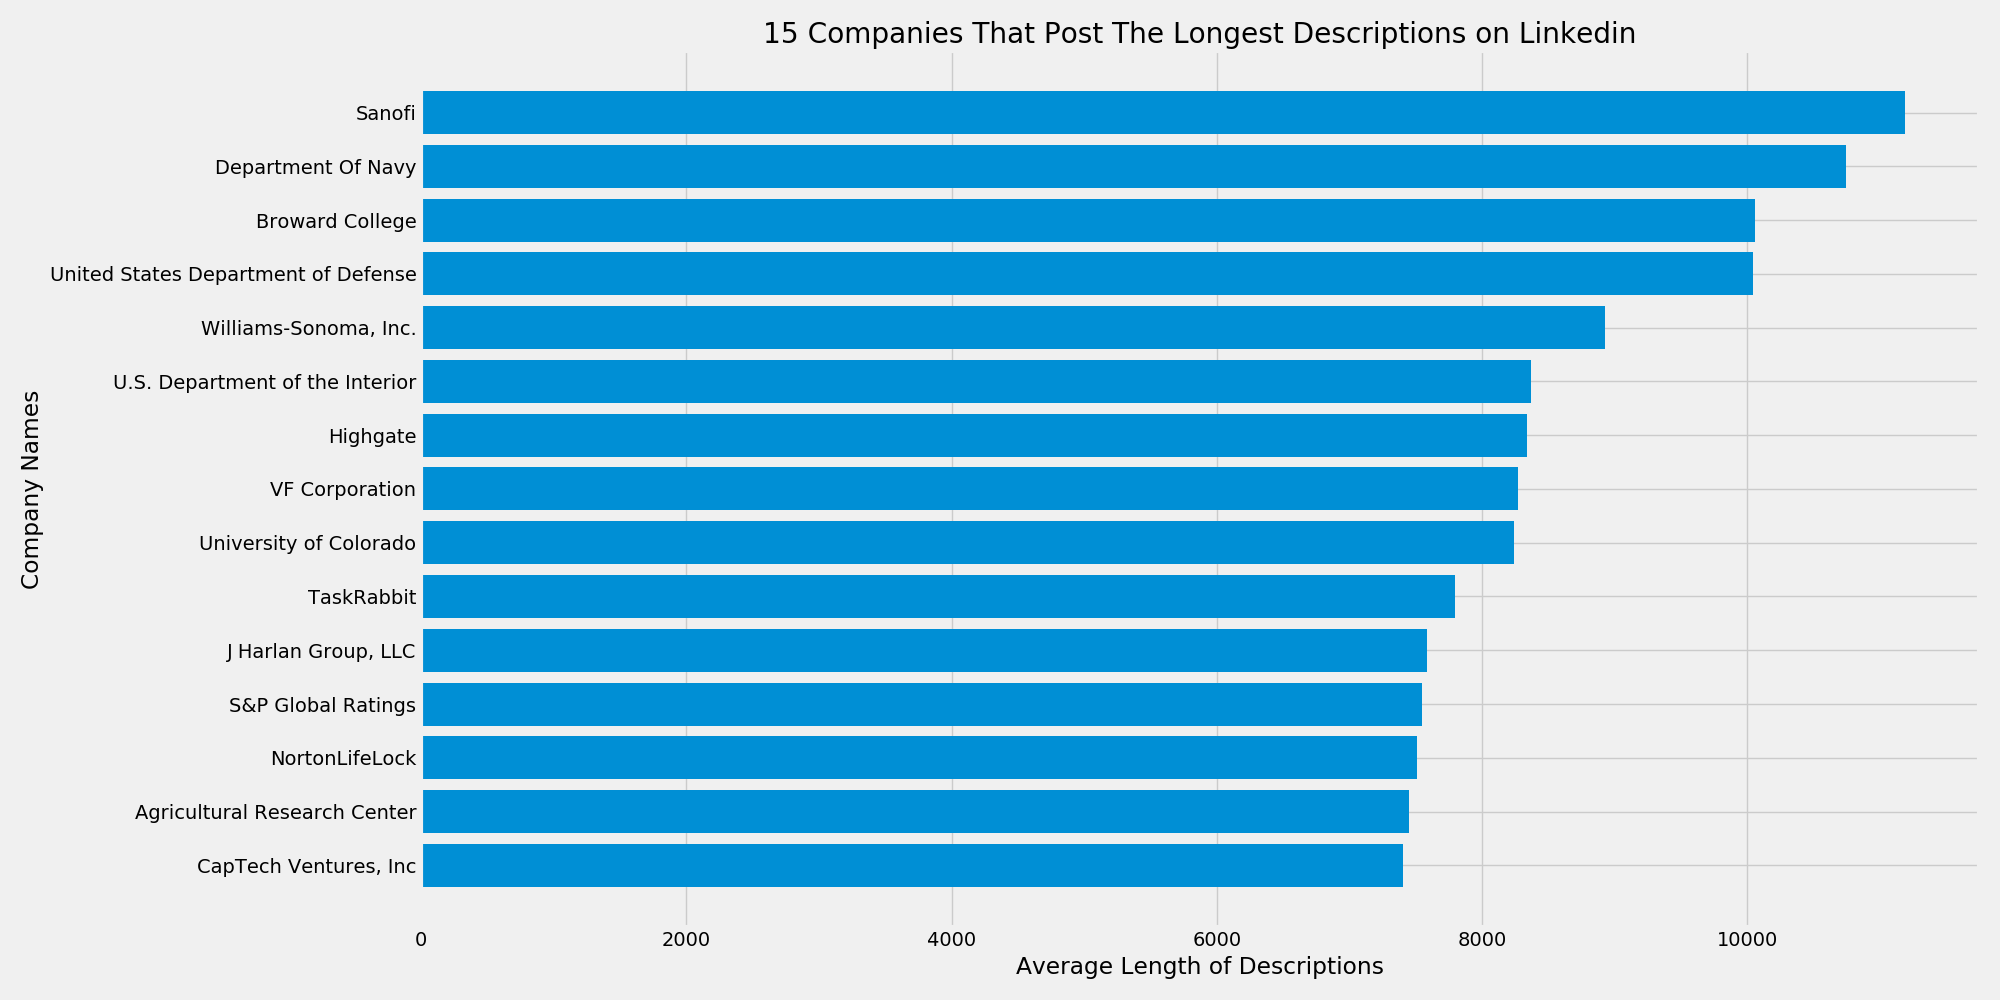
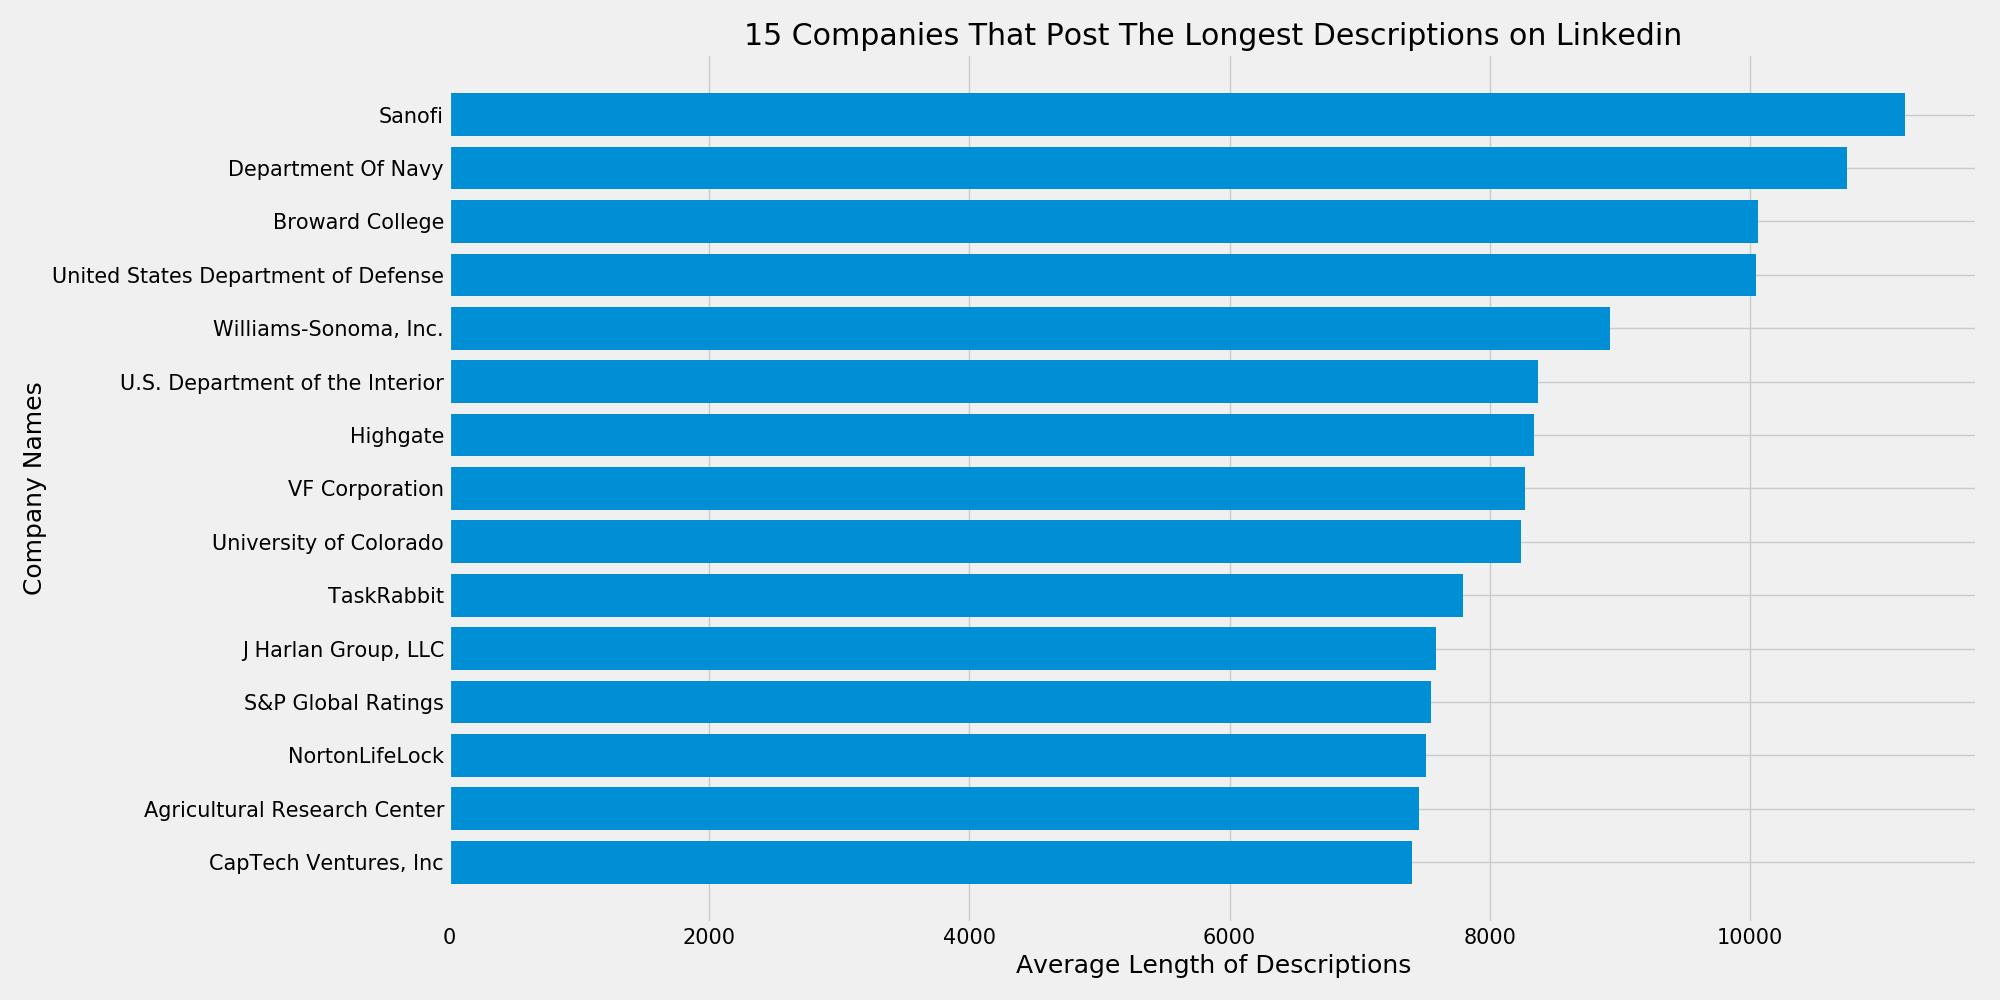
Messing with graph sizes

diff --git a/src/graphing_eda.py b/src/graphing_eda.py
@@ -62,7 +62,7 @@ jobs = df_all['Company'].value_counts().values[:15]
 jobs = jobs[::-1]
 
 fig, ax = plt.subplots(figsize=(15,10))
-# plt.rcParams.update({'font.size': 15})
+plt.rcParams.update({'font.size': 15})
 
 ax.barh(companies, jobs)
 
@@ -120,7 +120,7 @@ def graph_top10_companies(state_id):
 
     jobs_state = df_all_state['Company'].value_counts().values[:10]
     jobs_state = jobs_state[::-1]
-    # plt.rcParams.update({'font.size': 15})
+    plt.rcParams.update({'font.size': 15})
 
     fig, ax = plt.subplots(figsize=(15,10))
     ax.barh(companies_state, jobs_state)
